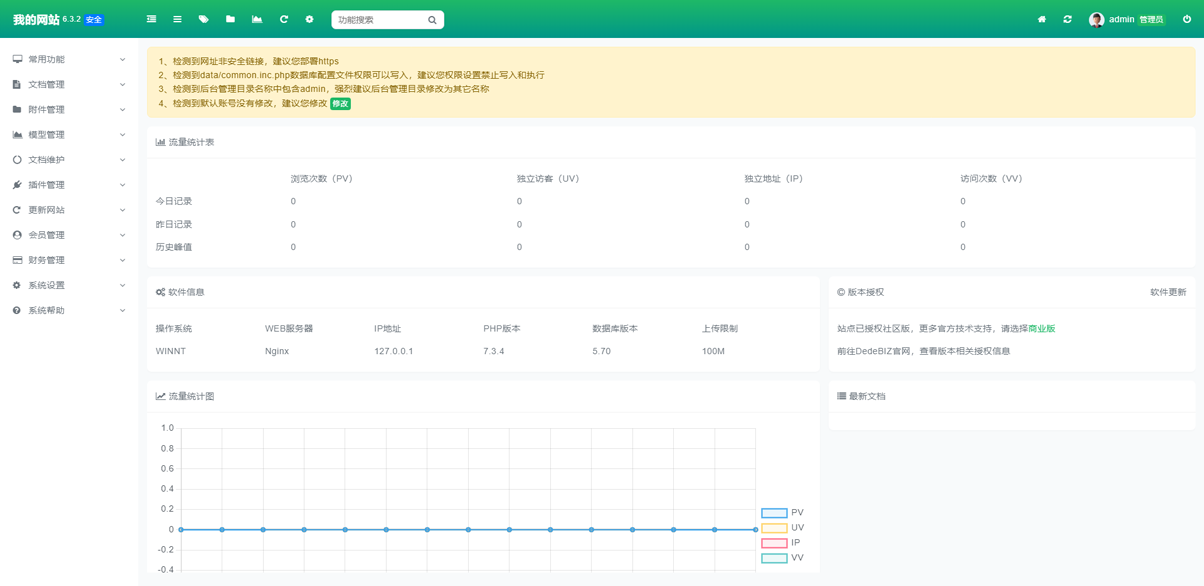
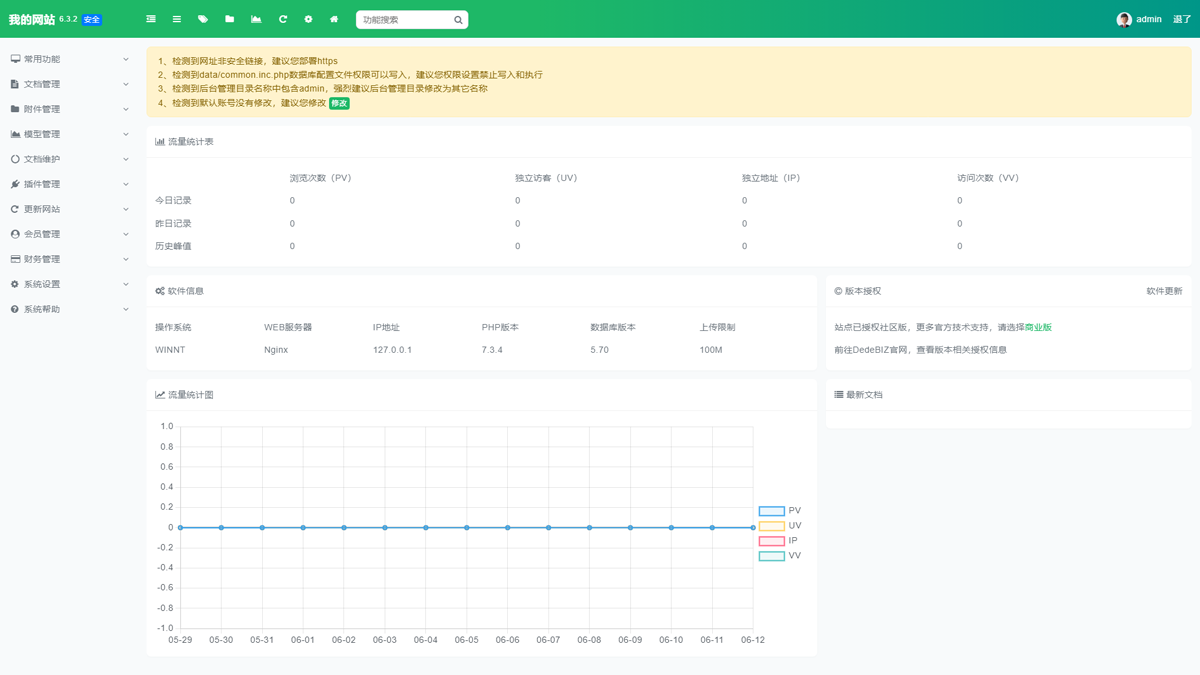
重做侧边菜单，细节优化

diff --git a/src/static/web/css/admin.css b/src/static/web/css/admin.css
@@ -5,7 +5,7 @@
 	--blue-300:#80bdff;
 	--success-800:#009688;
 	--b-radius:0.5rem;
-	--b-radius-300:0.25rem
+	--b-radius-sm:0.25rem
 }
 ::-webkit-scrollbar {
 	display:none
@@ -132,13 +132,12 @@ input:focus,select:focus,textarea:focus {
 }
 .install-box h1 {
 	margin:0;
-	line-height:1.2;
 	font-size:18px;
 	font-weight:700;
 	color:var(--gray-dark)
 }
 .install-box label {
-	margin-bottom:0.25rem
+	margin-bottom:0.5rem
 }
 .install-box .form-control {
 	height:36px
@@ -153,7 +152,7 @@ input:focus,select:focus,textarea:focus {
 	background-size:cover
 }
 .login-box {
-	padding:80px 100px
+	padding:70px 80px
 }
 .login-box .logo {
 	margin-bottom:60px
@@ -167,8 +166,8 @@ input:focus,select:focus,textarea:focus {
 	margin-bottom:20px
 }
 .login-box .title h1 {
-	margin-bottom:30px;
-	font-size:24px;
+	margin-bottom:40px;
+	font-size:18px;
 	font-weight:700;
 	color:var(--gray-dark)
 }
@@ -205,10 +204,10 @@ input:focus,select:focus,textarea:focus {
 	width:100%;
 	height:60px;
 	line-height:60px;
-	background:linear-gradient(180deg,var(--green),var(--success-800))
+	background:linear-gradient(90deg,var(--green) 45%,var(--success-800) 100%)
 }
 .admin-head .logo {
-	padding-left:20px;
+	padding-left:1rem;
 	width:220px
 }
 .admin-head .logo .name {
@@ -219,6 +218,7 @@ input:focus,select:focus,textarea:focus {
 	vertical-align:middle
 }
 .admin-head .logo .version {
+	padding:0 0.15rem;
 	font-size:12px;
 	color:var(--white);
 	vertical-align:top
@@ -229,7 +229,7 @@ input:focus,select:focus,textarea:focus {
 .admin-head .nav-item .search {
 	position:absolute;
 	top:20px;
-	right:0;
+	right:0.25rem;
 	line-height:20px;
 	color:var(--gray);
 	background:0;
@@ -270,62 +270,48 @@ body.menu-show .body-right {
 	width:220px;
 	overflow-y:auto
 }
-.sidemenu {
+.side-menu {
 	padding:1rem 0;
-	min-height:100%;
-	background:var(--white)
+	min-height:100%
 }
-.sidemenu .link {
-	display:block;
+.side-menu .menu-item {
 	position:relative;
-	padding-left:45px;
+	padding-left:2.5rem;
 	height:40px;
 	line-height:40px;
+	border-left:3px solid transparent;
 	cursor:pointer
 }
-.sidemenu li:last-child .link {
-	border-bottom:0
-}
-.sidemenu li i {
-	position:absolute;
-	top:13px;
-	left:20px;
+.side-menu .menu-item .menu-link {
 	color:var(--gray)
 }
-.sidemenu li i.fa-angle-down {
-	right:20px;
-	left:auto
+.side-menu .menu-item .menu-link .fa {
+	position:absolute;
+	top:13px;
+	left:1rem
 }
-.sidemenu li.open .link,.sidemenu li.open i {
+#open {
+	border-left:3px solid var(--green)
+}
+.side-menu .menu-item .fa,.side-menu .sub-item .fa {
+	position:absolute;
+	top:13px;
+	right:1rem
+}
+#open .menu-link,#open .fa-angle-down,.side-menu .sub-item.active a {
 	color:var(--green)
 }
-.sidemenu li.open i.fa-angle-down {
+#open .fa-angle-down {
 	transform:rotate(180deg)
 }
-.sidemenu .submenu {
-	display:none;
-	padding:5px 0;
-	background:var(--gray-500)
+.side-menu .menu-sub {
+	display:none
 }
-.sidemenu .submenu li {
+.side-menu .sub-item {
+	position:relative;
+	padding-left:2.675rem;
 	height:40px;
 	line-height:40px
-}
-.sidemenu .submenu li:hover {
-	background:var(--success-800)
-}
-.sidemenu .submenu a {
-	display:block;
-	float:left;
-	padding:0 0 0 45px;
-	color:var(--white)
-}
-.sidemenu .submenu .active {
-	background:var(--green)
-}
-.sidemenu .submenu-right {
-	float:right!important;
-	padding:0 20px 0 0!important
 }
 .body-right {
 	padding:1rem;
@@ -772,7 +758,7 @@ input,select,textarea,.upload-bg,.colordlg,.pubdlg,.quickselitem .topcat,.mysour
 	padding:0.2rem;
 	line-height:1;
 	font-size:12px;
-	border-radius:var(--b-radius-300)!important
+	border-radius:var(--b-radius-sm)!important
 }
 .btn+.btn {
 	margin-left:0.5rem
@@ -787,13 +773,12 @@ input,select,textarea,.upload-bg,.colordlg,.pubdlg,.quickselitem .topcat,.mysour
 }
 @media screen and (max-width:1199px) and (min-width:992px) {
 	.login-box {
-		padding:30px
+		padding:1rem
 	}
 }
 @media (max-width:768px) {
 	td {
-		white-space:nowrap;
-		word-break:break-all
+		white-space:nowrap
 	}
 	.install-box,.tips-box,.w-65,.w-35,.admin-textarea-sm,.admin-input-lg,.admin-input-md,.admin-input-sm {
 		width:100%

diff --git a/src/static/web/css/style.css b/src/static/web/css/style.css
@@ -316,6 +316,22 @@ input[type=radio],input[type=checkbox],input[type=radio]:focus,input[type=checkb
 	padding:1.5rem;
 	background:var(--white)
 }
+#returntop {
+	display:none;
+	position:fixed;
+	padding:10px 15px;
+	right:1rem;
+	bottom:1rem;
+	color:var(--white);
+	cursor:pointer;
+	background:var(--orange);
+	border-radius:var(--b-radius);
+	border:0;
+	z-index:9998
+}
+#returntop:hover {
+	background:var(--orange)
+}
 .biz-mb {
 	margin-bottom:-2rem
 }
@@ -361,9 +377,6 @@ input[type=radio],input[type=checkbox],input[type=radio]:focus,input[type=checkb
 .input-group-append .btn-sm {
 	line-height:1.8
 }
-.table {
-	color:var(--gray)
-}
 .table td,.table th {
 	padding:0.5rem;
 	vertical-align:middle
@@ -374,9 +387,6 @@ input[type=radio],input[type=checkbox],input[type=radio]:focus,input[type=checkb
 }
 .form-control,.fa,.btn,.dropdown-menu {
 	font-size:14px!important
-}
-.btn+.btn {
-	margin-left:0.5rem
 }
 .input-text {
 	height:36px;
@@ -432,25 +442,15 @@ a:hover,.item-theme:hover,.item-news:hover {
 	border-top-right-radius:0!important;
 	border-bottom-right-radius:0!important
 }
-#validateimg,.btn-send {
+.btn+.btn {
+	margin-left:0.5rem
+}
+.shadow-sm {
+	box-shadow:0 .125rem 0.25rem rgba(0,0,0,.025)!important
+}
+.btn-send,#validateimg {
 	border-radius:0 var(--b-radius) var(--b-radius) 0;
 	cursor:pointer
-}
-#returntop {
-	display:none;
-	position:fixed;
-	padding:10px 15px;
-	right:1rem;
-	bottom:1rem;
-	color:var(--white);
-	cursor:pointer;
-	background:var(--orange);
-	border-radius:var(--b-radius);
-	border:0;
-	z-index:9998
-}
-#returntop:hover {
-	background:var(--orange)
 }
 @media (max-width:768px) {
 	.pb-m-3 {

diff --git a/src/admin/templets/index.htm b/src/admin/templets/index.htm
@@ -40,24 +40,24 @@
 					<li class="nav-item"><a class="nav-link" href="/" target="_blank"><i class="fa fa-home" title="预览首页"></i></a></li>
 					<li class="nav-item d-none d-lg-block">
 						<form action="action_search.php" method="post" target="main">
-							<input type="text" name="keyword" placeholder="功能搜索" class="admin-input-sm">
+							<input type="text" name="keyword" placeholder="功能搜索" class="admin-input-sm ml-3">
 							<button type="submit" class="search"><i class="fa fa-search"></i></button>
 						</form>
 					</li>
 				</ul>
 				<div class="user pr-3 d-none d-lg-block">
 					<a href="sys_admin_user_edit.php?id=<?php echo $cuserLogin->getUserID();?>&dopost=edit" target="main"><img src="<?php echo $cuserLogin->getUserFace();?>"><?php echo $cuserLogin->getUserName();?></a>
-					<a href="exit.php" class="ml-3"><i class="fa fa-power-off" title="退出后台"></i></a>
+					<a href="exit.php" class="ml-3">退了</a>
 				</div>
 			</nav>
 		</header>
 		<aside class="menu-left">
-			<ul id="sidemenu" class="sidemenu">
+			<div class="side-menu">
 				<?php 
 				$openitem = 100;
 				GetMenus($cuserLogin->getUserRank(), 'main'); 
 				?>
-			</ul>
+			</div>
 		</aside>
 		<main class="body-right">
 			<iframe src="index_body.php" name="main" id="main" frameborder="0"></iframe>

diff --git a/src/static/web/js/admin.main.js b/src/static/web/js/admin.main.js
@@ -408,30 +408,18 @@ $(document).ready(function() {
 		}
 	});
 	$(function() {
-		var menu = function(el, multiple) {
-			this.el = el || {};
-			this.multiple = multiple || false;
-			var links = this.el.find(".link");
-			links.on("click", {
-				el: this.el,
-				multiple: this.multiple,
-			},
-			this.dropdown);
-		}
-		menu.prototype.dropdown = function(e) {
-			var $el = e.data.el;
-			$this = $(this),
-			$next = $this.next();
-			$next.slideToggle();
-			$this.parent().toggleClass("open");
-			if (!e.data.multiple) {
-				$el.find(".submenu").not($next).slideUp().parent().removeClass("open");
+		$(".menu-item").on("click",function() {
+			$(".menu-sub").stop();
+			$(this).siblings(".menu-item").removeAttr("id");
+			if ($(this).attr("id") == "open") {
+				$(this).removeAttr("id").siblings(".menu-sub").slideUp();
+			} else {
+				$(this).attr("id","open").next().slideDown().siblings(".menu-sub").slideUp();
 			}
-		}
-		var menu = new menu($("#sidemenu"), false);
-		$(".submenu li a").click(function(e) {
-			$(".submenu li").removeClass("active");
-			$(this).parent().addClass("active");
+		});
+		$(".sub-item").click(function() {
+			$(".sub-item").removeClass("active");
+			$(this).addClass("active");
 		});
 	});
 	$("#btnClearAll").click(function(event) {

diff --git a/src/admin/inc/inc_menu_func.php b/src/admin/inc/inc_menu_func.php
@@ -10,9 +10,9 @@
  */
 require_once(dirname(__FILE__)."/../config.php");
 require_once(DEDEINC."/dedetag.class.php");
-$headTemplet = '<li><div class="link"><i class="~icon~"></i><span>~channelname~</span><i class="fa fa-angle-down"></i></div><ul class="submenu">';
-$footTemplet = "</ul></li>";
-$itemTemplet = "<li>~link~</li>";
+$headTemplet = '<div class="menu-item"><a class="menu-link"><i class="~icon~"></i>~channelname~</a><i class="fa fa-angle-down"></i></div><ul class="menu-sub">';
+$footTemplet = '</ul>';
+$itemTemplet = '<li class="sub-item">~link~</li>';
 function GetMenus($userrank, $topos = 'main')
 {
     global $openitem, $headTemplet, $footTemplet, $itemTemplet;

diff --git a/docs/changelog.md b/docs/changelog.md
@@ -2,7 +2,7 @@
 通过访问 https://www.dedebiz.com/git 获取完整更新记录
 
 # V6.3.1
-- 重做后台调整；
+- 重做后台管理；
 - 增加流量统计列表功能；
 - 优化系统提示；
 - 优化后台链接官方资源加载超时保持流畅；
@@ -10,7 +10,6 @@
 - 优化Cookie函数，增加samesite属性等设置；
 - 修正文档标题默认字符限制问题；
 - 修正富文本复制粘贴功能；
-- 重做响应式后台登录页面；
 - 其他常规问题修复；
 
 # V6.3.0
